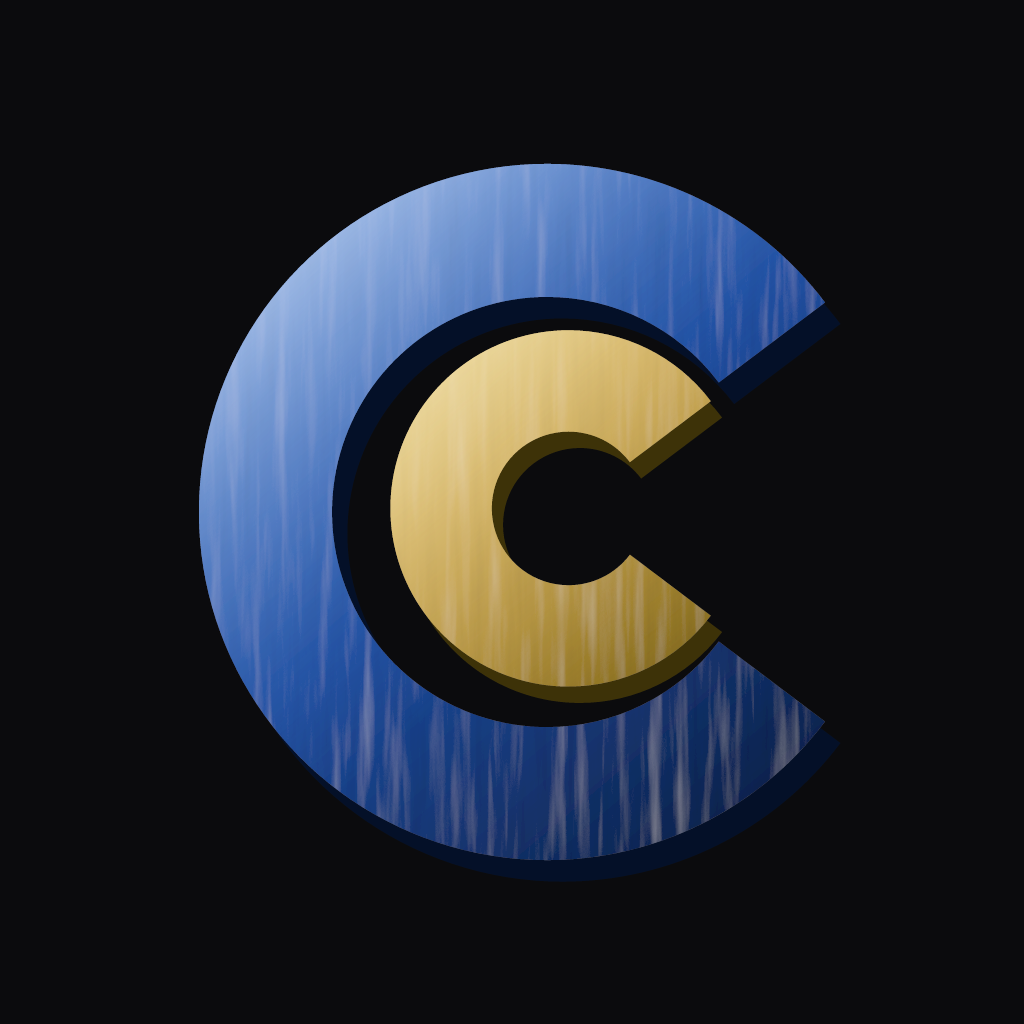
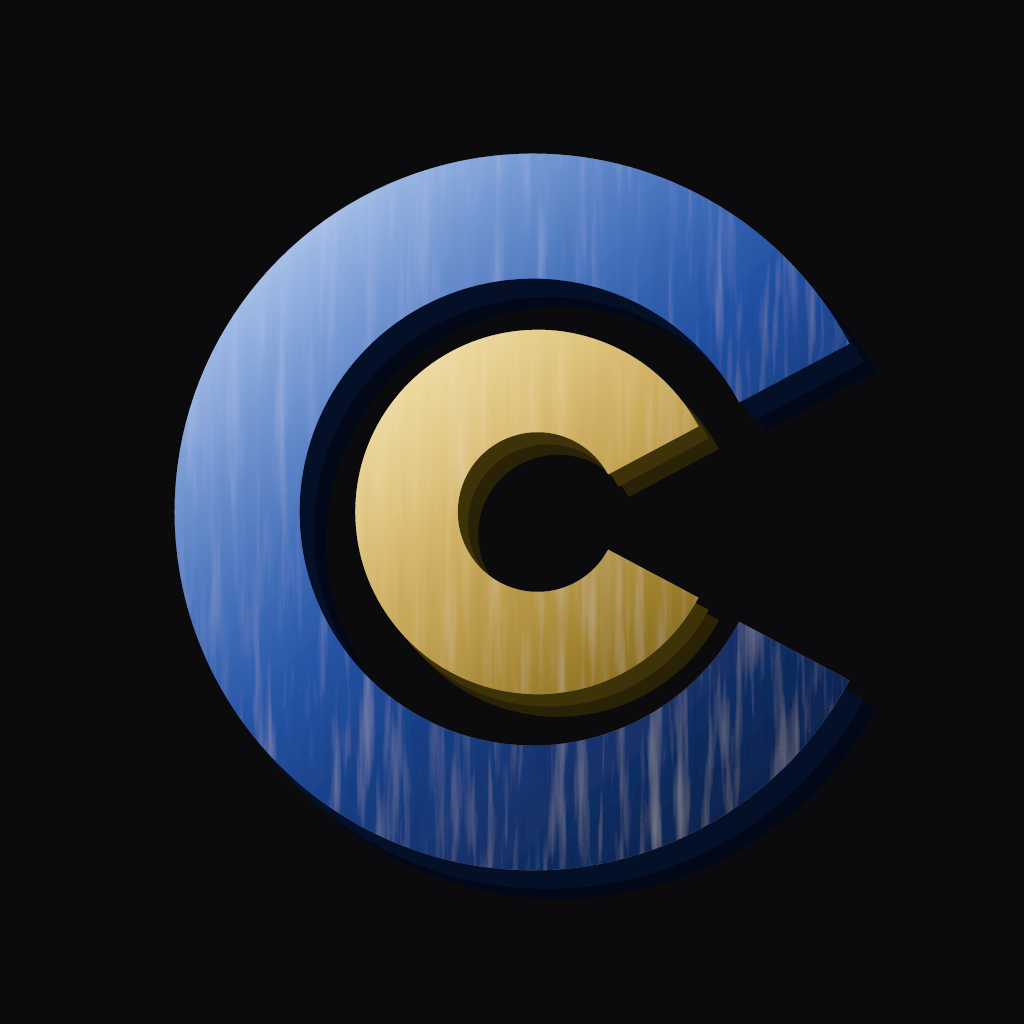
Match ContiCost nested-CC optical center and stroke
Retune the shared mark to Jon’s ContiCost proportions: tighter
C opening, near-concentric gold C, even vertical padding, and
balanced blue/gold stroke. Regenerate every brand PNG.

diff --git a/lib/brand/cc-mark-geometry.test.ts b/lib/brand/cc-mark-geometry.test.ts
@@ -6,6 +6,7 @@ import {
   CC_OPENING_DEG,
   CC_VIEWBOX,
   GOLD_INNER,
+  GOLD_OFFSET_X,
   GOLD_OUTER,
   bluePath,
   ccCenter,
@@ -15,19 +16,20 @@ import {
 } from "./cc-mark-geometry.ts";
 
 describe("cc-mark geometry", () => {
-  test("gold sits inside the blue C with breathing room and a heavier blue stroke", () => {
+  test("gold is nested in the blue C with ContiCost-like stroke and gap", () => {
     const { center, goldCenter: gold, gap, blueStroke, goldStroke } = ccMetrics();
     assert.equal(center.cx, ccCenter().cx);
     assert.equal(center.cy, CC_VIEWBOX / 2);
-    assert.ok(gold.cx > center.cx, "gold should sit slightly toward the opening");
-    assert.ok(gold.cy < center.cy, "gold should sit slightly above the drop shadow");
-    assert.ok(gap > 3 && gap < 6, `gap ${gap} should leave even breathing room`);
+    assert.ok(gold.cx >= center.cx, "gold may sit slightly toward the opening");
+    assert.ok(GOLD_OFFSET_X < 1, "gold must not sit in the mouth");
+    assert.equal(gold.cy, center.cy);
+    assert.ok(gap > 3.5 && gap < 5.5, `gap ${gap}`);
     assert.ok(blueStroke > goldStroke, "blue stroke should be heavier than gold");
-    assert.ok(blueStroke / goldStroke > 1.2 && blueStroke / goldStroke < 1.6);
+    assert.ok(blueStroke / goldStroke > 1.15 && blueStroke / goldStroke < 1.4);
     assert.equal(BLUE_INNER - GOLD_OUTER, gap);
   });
 
-  test("arcs are circles (equal radii) and share one opening angle", () => {
+  test("arcs are circles and share one opening angle", () => {
     const blue = bluePath();
     const gold = goldPath();
     const blueRadii = [...blue.matchAll(/A([0-9.]+) \1/g)].map((m) => Number(m[1]));
@@ -36,10 +38,10 @@ describe("cc-mark geometry", () => {
     assert.deepEqual(goldRadii, [GOLD_OUTER, GOLD_INNER]);
     assert.match(blue, /A[\d.]+ [\d.]+ 0 1 0/);
     assert.match(gold, /A[\d.]+ [\d.]+ 0 1 0/);
-    assert.equal(CC_OPENING_DEG, 37);
+    assert.equal(CC_OPENING_DEG, 28);
   });
 
-  test("blue C bounding box is optically centered in the square viewBox", () => {
+  test("blue C bounding box is centered and gold stays inside it", () => {
     const { blueBBox, goldBBox, center } = ccMetrics();
     const midX = (blueBBox.left + blueBBox.right) / 2;
     const midY = (blueBBox.top + blueBBox.bottom) / 2;
@@ -47,12 +49,13 @@ describe("cc-mark geometry", () => {
     assert.ok(Math.abs(midY - CC_VIEWBOX / 2) < 0.05);
     const leftInnerGap = goldBBox.left - (center.cx - BLUE_INNER);
     const topInnerGap = goldBBox.top - (center.cy - BLUE_INNER);
-    assert.ok(leftInnerGap > 2.5 && leftInnerGap < 8, `left inner gap ${leftInnerGap}`);
-    assert.ok(topInnerGap > 2.5 && topInnerGap < 6, `top inner gap ${topInnerGap}`);
+    const botInnerGap = center.cy + BLUE_INNER - goldBBox.bottom;
+    assert.ok(leftInnerGap > 3 && leftInnerGap < 6, `left inner gap ${leftInnerGap}`);
+    assert.ok(Math.abs(topInnerGap - botInnerGap) < 0.05, "vertical gold padding should match");
     assert.ok(goldBBox.right < blueBBox.right);
   });
 
-  test("path helper stays concentric when radii change", () => {
+  test("path helper stays circular when radii change", () => {
     const center = ccCenter();
     const path = ccPath(20, 10, center);
     assert.ok(path.startsWith("M"));

diff --git a/lib/brand/cc-mark-geometry.ts b/lib/brand/cc-mark-geometry.ts
@@ -1,16 +1,16 @@
-/** Shared nested-CC geometry. Both letters are true circles about one center. */
+/** Shared nested-CC geometry matched to Jon’s ContiCost reference. */
 
 export const CC_VIEWBOX = 100;
-export const CC_OPENING_DEG = 37;
+/** Tighter opening so the circular C reads closer to a 1:1 glyph. */
+export const CC_OPENING_DEG = 28;
 
-/** Outer radius of the blue C. Padding left for drop shadow. */
-export const BLUE_OUTER = 34;
-export const BLUE_INNER = 21;
-export const GOLD_OUTER = 17.4;
-export const GOLD_INNER = 7.5;
-/** Nudge gold toward the opening so it reads centered in the C’s interior. */
-export const GOLD_OFFSET_X = 2.1;
-export const GOLD_OFFSET_Y = -0.35;
+export const BLUE_OUTER = 35;
+export const BLUE_INNER = 22.8;
+export const GOLD_OUTER = 17.8;
+export const GOLD_INNER = 7.8;
+/** Tiny optical nudge toward the opening — ContiCost sits ~5% right, not in the mouth. */
+export const GOLD_OFFSET_X = 0.45;
+export const GOLD_OFFSET_Y = 0;
 
 export type CcCenter = { cx: number; cy: number };
 

diff --git a/components/cc-mark.tsx b/components/cc-mark.tsx
@@ -56,10 +56,12 @@ export function CcMark({ id, size = 72, className }: CcMarkProps) {
           <feBlend in="SourceGraphic" in2="clipped" mode="overlay" />
         </filter>
       </defs>
-      <path fill="#041028" d={blueD} transform="translate(1.5 2.1)" />
+      <path fill="#020817" d={blueD} transform="translate(2.6 2.8)" />
+      <path fill="#041028" d={blueD} transform="translate(1.4 1.8)" />
       <path fill={`url(#${blue})`} d={blueD} filter={`url(#${brush})`} />
       <path fill={`url(#${blueHi})`} d={blueD} />
-      <path fill="#3d3208" d={goldD} transform="translate(1.1 1.6)" />
+      <path fill="#2a2206" d={goldD} transform="translate(2 2.2)" />
+      <path fill="#3d3208" d={goldD} transform="translate(1 1.2)" />
       <path fill={`url(#${gold})`} d={goldD} filter={`url(#${brush})`} />
       <path fill={`url(#${goldHi})`} d={goldD} />
     </svg>
